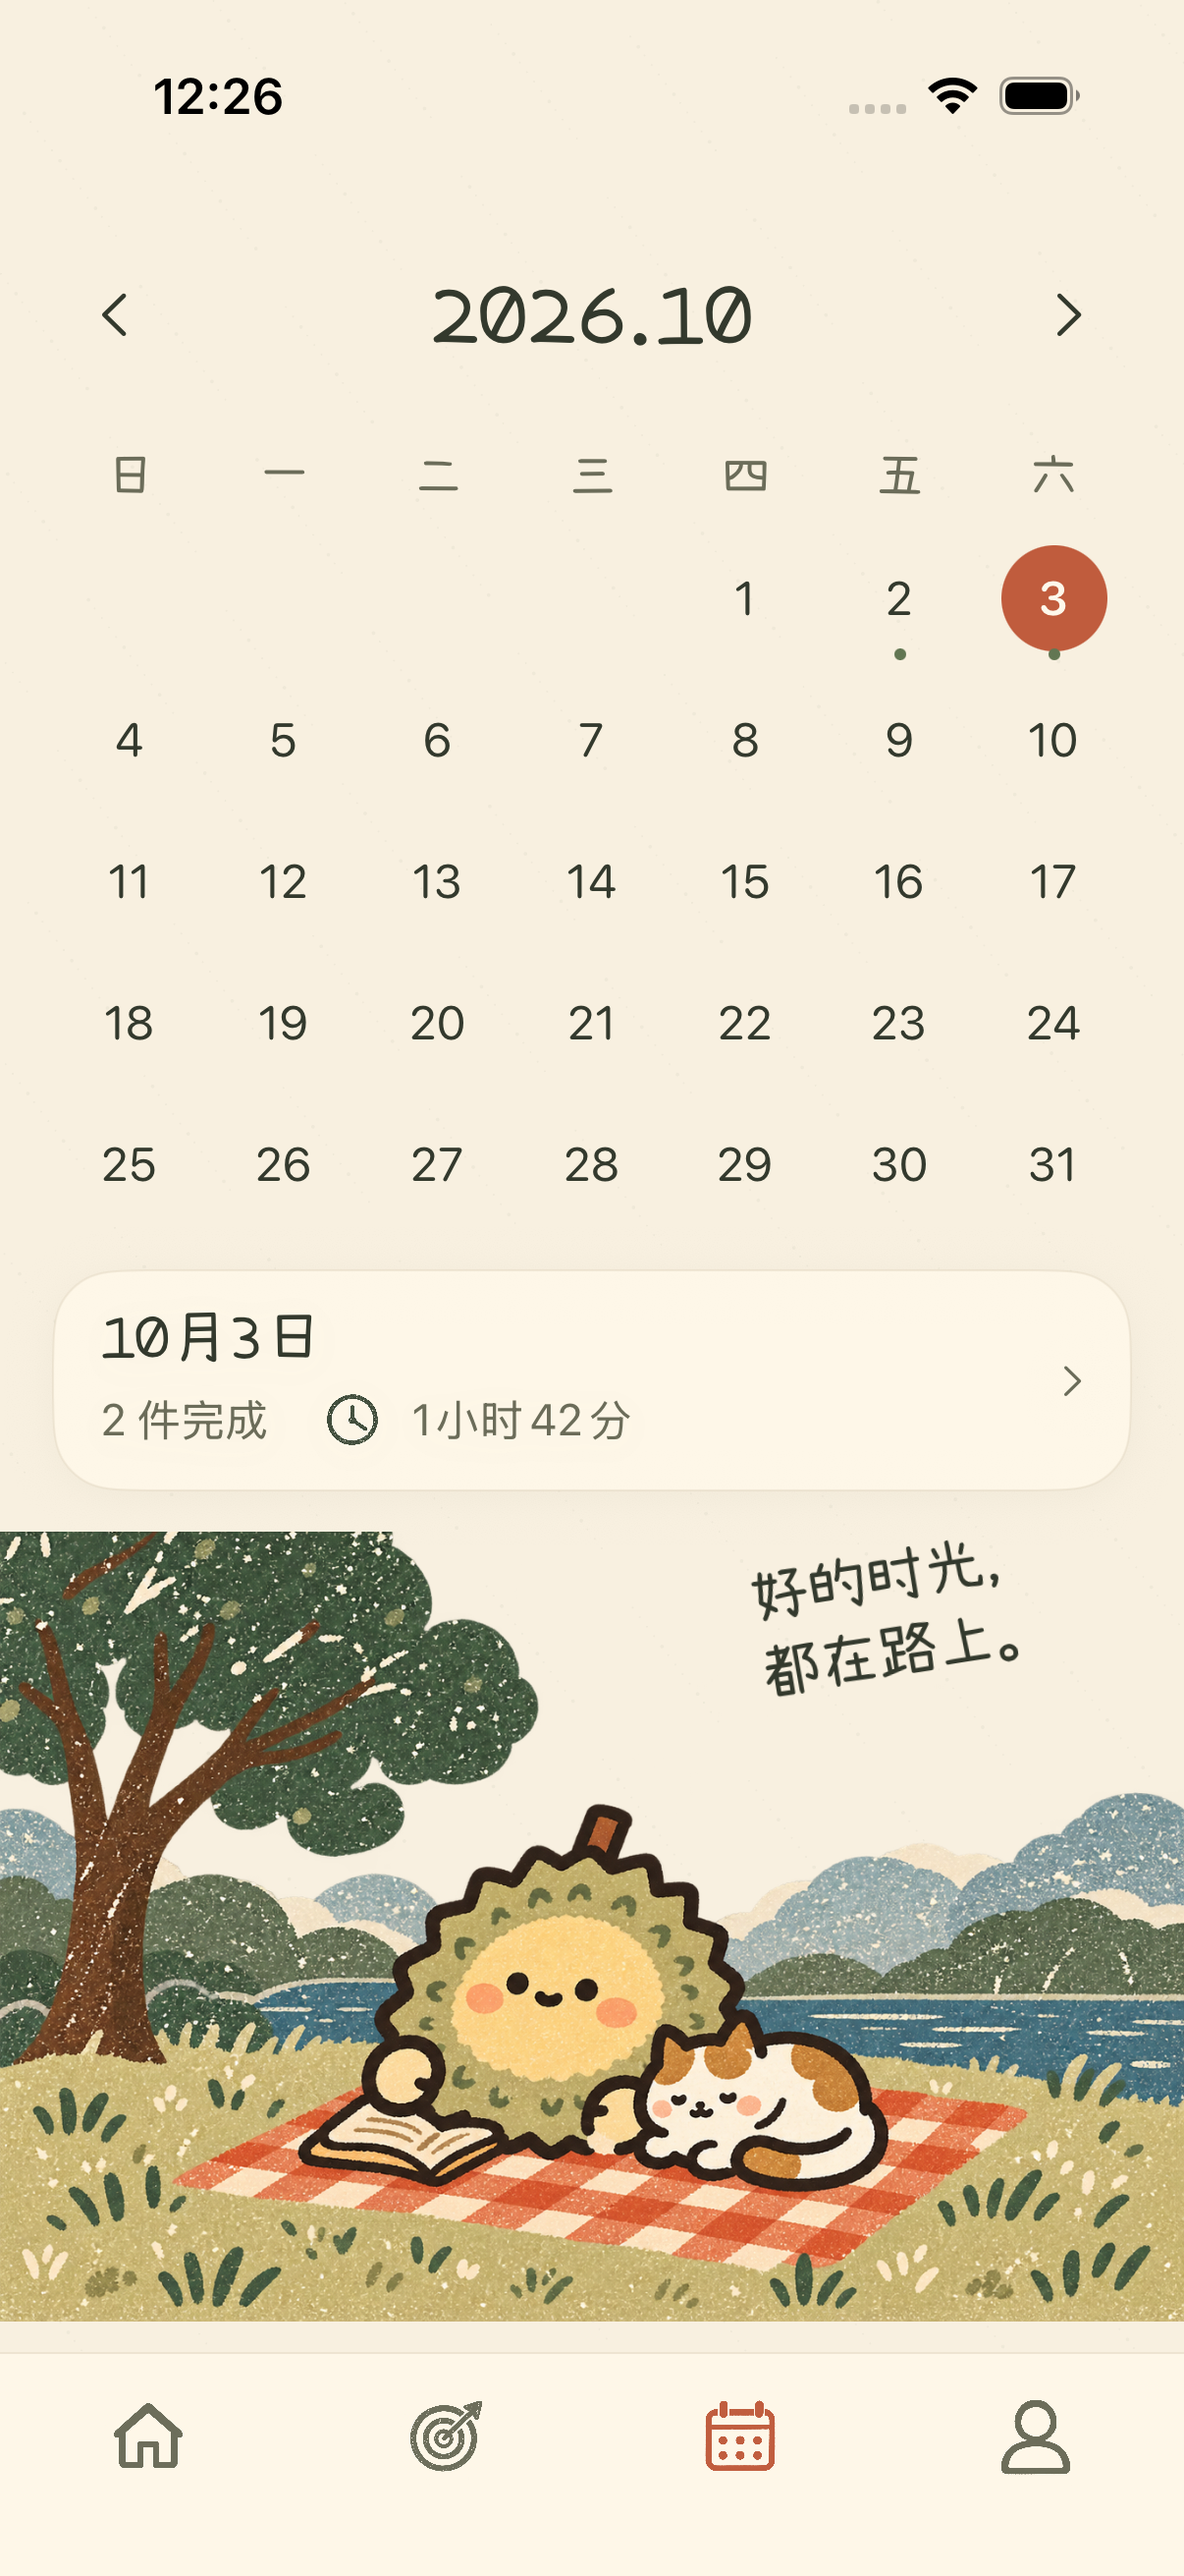
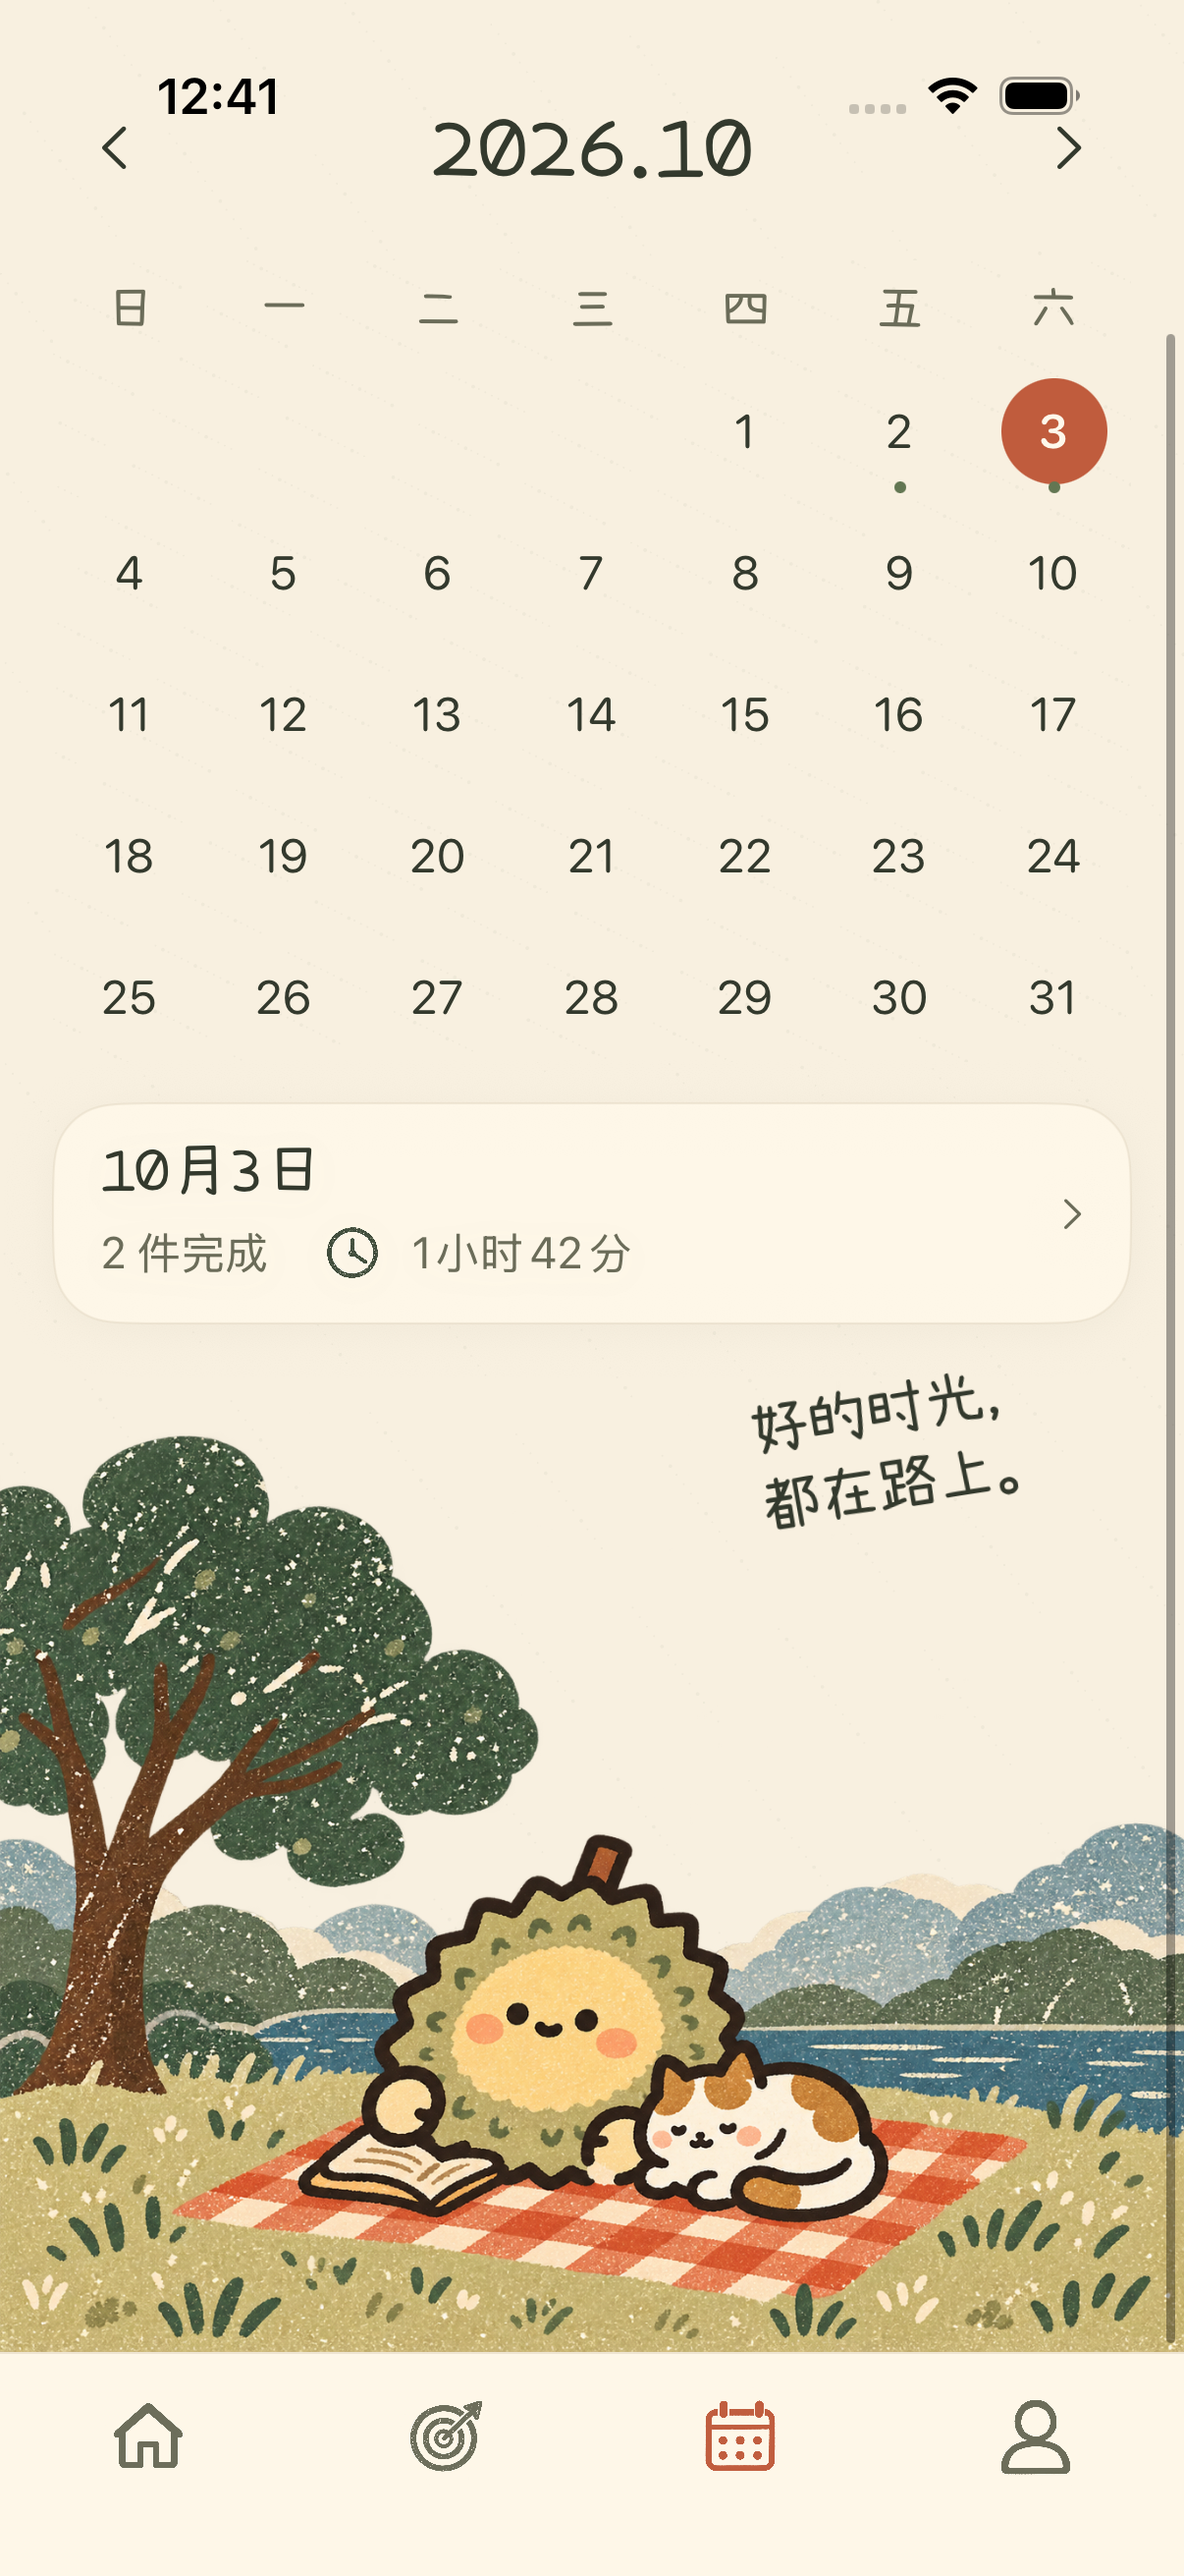
fix: use complete calendar illustration as fixed background

diff --git a/ios/ZhouJi/Features/Calendar/CalendarView.swift b/ios/ZhouJi/Features/Calendar/CalendarView.swift
@@ -8,6 +8,7 @@ struct CalendarView: View {
     @State private var month = Date.now
     @State private var selectedDate = Date.now
     @State private var isDayPresented = false
+    @State private var viewportHeight: CGFloat = 0
 
     var body: some View {
         NavigationStack {
@@ -18,30 +19,35 @@ struct CalendarView: View {
                     VStack(spacing: 14) {
                         monthHeader
                         monthGrid(activity: activity, now: context.date)
+                            .background(ZJTheme.pageBackground)
                         daySummary(facts)
-                        GeometryReader { proxy in
-                            Image(decorative: "LiuliCalendarReference")
-                                .resizable()
-                                .scaledToFit()
-                                .frame(width: proxy.size.width, height: proxy.size.width / 1.2)
-                                .frame(width: proxy.size.width, height: proxy.size.height, alignment: .bottom)
-                                .clipped()
-                        }
-                            .aspectRatio(1.5, contentMode: .fit)
+                        Color.clear
+                            .aspectRatio(1.2, contentMode: .fit)
                             .padding(.horizontal, -ZJTheme.pagePadding)
-                            .allowsHitTesting(false)
+                            .accessibilityHidden(true)
                             .overlay(alignment: .topTrailing) {
-                                Text("好的时光，\n都在路上。")
+                                if viewportHeight >= 700 && !dynamicTypeSize.isAccessibilitySize {
+                                    Text("好的时光，\n都在路上。")
                                     .font(ZJTheme.handwriting(20, relativeTo: .body))
                                     .lineSpacing(5)
                                     .foregroundStyle(ZJTheme.ink)
                                     .rotationEffect(.degrees(-9))
                                     .padding(.trailing, 28)
                                     .padding(.top, 4)
+                                }
                             }
                     }
                     .padding(.horizontal, ZJTheme.pagePadding)
                     .padding(.top, 20)
+                }
+                .onGeometryChange(for: CGFloat.self) { $0.size.height } action: { viewportHeight = $0 }
+                .background(alignment: .bottom) {
+                    Image(decorative: "LiuliCalendarReference")
+                        .resizable()
+                        .scaledToFit()
+                        .frame(maxWidth: .infinity)
+                        .accessibilityHidden(true)
+                        .allowsHitTesting(false)
                 }
             }
             .background(ZJTheme.pageBackground.ignoresSafeArea())

diff --git a/docs/02-产品需求文档-PRD.md b/docs/02-产品需求文档-PRD.md
@@ -491,7 +491,7 @@ V1–V3 不提供回收站、批量删除、自动清理、账户注销或云端
 ### 视觉方向
 
 - 以用户提供的手绘参考为准：奶油纸色页面、浅奶油卡片、苔绿正文与完成状态、陶土橙导航选中态和计时/新增操作，辅以少量暖黄色。
-- 榴榴为圆形榴莲角色，苔绿外壳、浅黄面孔、棕色轮廓与粉橙腮红；今天使用桌边书写场景，目标使用旅行场景，日历使用榴榴与小猫阅读野餐场景，左侧树木、远山与湖面使用平面丝网印刷质感，草地延伸到左右边缘，插画按页面宽度保持比例；“我的”使用抱心形象。
+- 榴榴为圆形榴莲角色，苔绿外壳、浅黄面孔、棕色轮廓与粉橙腮红；今天使用桌边书写场景，目标使用旅行场景，日历使用榴榴与小猫阅读野餐场景，左侧树木、远山与湖面使用平面丝网印刷质感，草地延伸到左右边缘，插画作为页面底部背景按宽度完整等比显示，不裁剪且不随日历内容滚动；“我的”使用抱心形象。
 - 页面标题与品牌短句使用随应用打包的小赖字体，任务内容与数据保留系统易读字体；纸纹轻量且静止，插画不参与点击和 VoiceOver。
 - 底部导航使用通栏浅奶油底座与纯图标，保留完整无障碍名称；四个入口固定为今天、目标、日历、我的。
 - 今天页无任务或全部完成时用居中大加号与“记一件事”作为主要入口；插画始终按页面宽度保持原始比例，添加、完成和恢复任务不改变插画及其上方文案的大小。插画的可见内容延伸到屏幕左右边缘，不能被任务列表的左右留白或圆角裁切，素材自身的透明边也不能形成可见空隙；任务卡片独立保留左右留白。有任务时列表允许滚动，右下新增入口悬浮于列表上方，不设置通栏底色或固定新增区域；没有计时条或撤销提示时列表延伸至底部导航上方，末尾保留可滚动的避让空间，让最后一项任务可以完整露出。当前计时条和撤销提示仍在列表下方占独立空间，不遮挡任务操作。仅有一项未完成任务时，新增返回和收起计时后让任务行完整进入可操作区域；多任务列表不自动定位。全部完成后返回完整休息首屏，已完成记录保留在首屏下方，向下滚动可查看。

diff --git a/docs/design/2026-10-03-日历插画调整.md b/docs/design/2026-10-03-日历插画调整.md
@@ -6,8 +6,8 @@
 
 - 榴榴和小猫在野餐垫上阅读，左侧树木、远山、湖面、草地铺满页面宽度。
 - 上部透明区域融入现有纸张背景，短句由界面独立绘制。
-- 按页面宽度保持插画比例；收紧上部装饰留白，底部草地与导航底座相接。小屏内容允许滚动。
-- 日期选择、月份切换、当天统计和当天回顾沿用既有行为。
+- 插画作为日历页面底部固定背景，按页面宽度完整等比显示，不裁剪，不随日历内容滚动；底部草地与导航底座相接。小屏内容允许滚动。
+- 日期选择、月份切换、当天统计和当天回顾沿用既有行为。日期网格提供纸张底色以保持可读；小屏与辅助功能大字号省略装饰短句，避免压在角色和小猫上。
 
 代码：`ios/ZhouJi/Features/Calendar/CalendarView.swift`。
 素材：`ios/ZhouJi/Assets.xcassets/LiuliCalendarReference.imageset/LiuliCalendarReference.png`。
